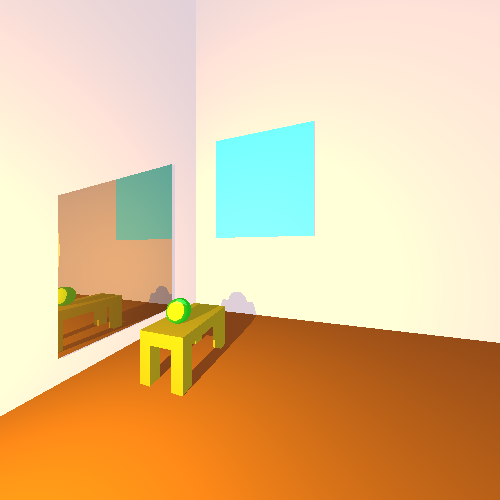
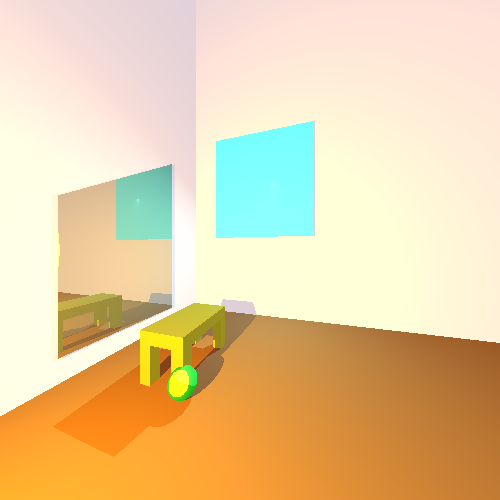
start a chair

diff --git a/unitTests/renderer/Squared3DTest.java b/unitTests/renderer/Squared3DTest.java
@@ -2,16 +2,10 @@ package renderer;
 
 import geometries.*;
 import lighting.AmbientLight;
-import lighting.DirectionalLight;
-import lighting.PointLight;
 import lighting.SpotLight;
 import org.junit.jupiter.api.Test;
 import primitives.*;
 import scene.Scene;
-
-import static java.awt.Color.BLUE;
-import static java.awt.Color.RED;
-import static org.junit.jupiter.api.Assertions.*;
 
 class  Squared3DTest {
 
@@ -42,6 +36,14 @@ class  Squared3DTest {
                 scene.geometries.add(edge.setMaterial(new Material().setKd(0.5).setKs(0.5).setShininess(30)));
 //        }
             }
+
+            Chair c =new Chair(new Point(10,-30,0),3,3,15, new Color(120,120,0),8,8);
+
+            for (var s: c.getsquared3DList()) {
+                for (var edge: s.getGeometryList()) {
+                    scene.geometries.add(edge.setMaterial(new Material().setKd(0.5).setKs(0.5).setShininess(30)));
+//        }
+                }
 //
 //        for (var edge: s.getGeometryList()) {
 //            scene.geometries.add(edge.setMaterial(new Material().setKd(0.5).setKs(0.5).setShininess(30)));
@@ -74,12 +76,13 @@ class  Squared3DTest {
 //            Plane sky = (Plane) new Plane(new Point(-5000, -500, 190), new Vector(0, 0, -1))
 //                    .setEmission(new Color(201, 226, 255)).setMaterial(new Material().setnShininess(10).setkS(0.2));
             //The water mellon
-            scene.geometries.add(new Sphere(5, new Point(10, 0, 25)).setEmission(new Color(0, 153, 0)).setMaterial(new Material().setkT(0.1).setKd(0.2).setKs(0.6)));
+            //scene.geometries.add(new Sphere(5, new Point(10, 0, 25)).setEmission(new Color(0, 153, 0)).setMaterial(new Material().setkT(0.1).setKd(0.2).setKs(0.6)));
+            scene.geometries.add(new Sphere(5, new Point(0, -10, 5)).setEmission(new Color(0, 153, 0)).setMaterial(new Material().setkT(0.1).setKd(0.2).setKs(0.6)));
 
 
 
             scene.lights.add( new SpotLight(new Color(950,550,0), new Point(-95,0,50), new Vector(82,-18,-25)).setKl(0.1).setKq(0.0001));
-            scene.lights.add( new SpotLight(new Color(102,255,255), new Point(80,40,100), new Vector(-5,-20,-14)).setKl(0.1).setKq(0.0001));
+            scene.lights.add( new SpotLight(new Color(102,255,255), new Point(79,-30,100), new Vector(-5,0,-14)).setKl(0.1).setKq(0.0001));
 
 
 
@@ -93,4 +96,4 @@ class  Squared3DTest {
                     .writeToImage();
         }
 
-    }}
+    }}}

diff --git a/src/geometries/Chair.java b/src/geometries/Chair.java
@@ -1,0 +1,22 @@
+package geometries;
+
+import primitives.Color;
+import primitives.Point;
+
+import java.util.List;
+
+public class Chair extends Table {
+
+    private Squared3D backrest;
+    public Chair(Point position, int depth, int width, int height, Color color, int spaceWidth, int spaceDepth) {
+        super(position, depth, width, height, color, spaceWidth, spaceDepth);
+
+        backrest=new Squared3D(new Point(position.getX(), position.getY(), position.getZ()+height),depth,width,height,color);
+        squared3DList.add((Squared3D)backrest);
+    }
+
+//    public List<Squared3D> getsquared3DList() {
+//        return squared3DList;
+//    }
+
+}
